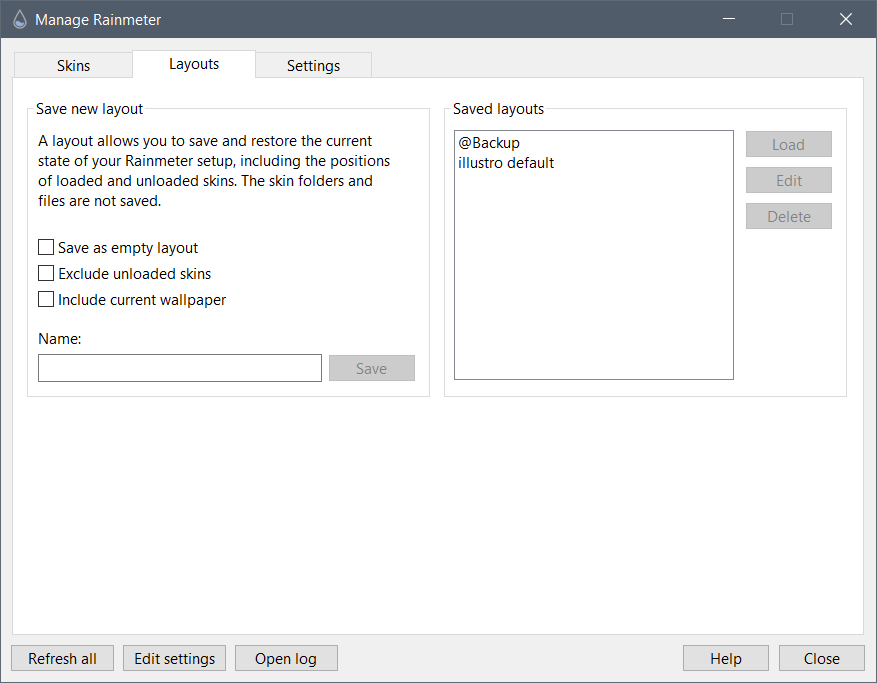
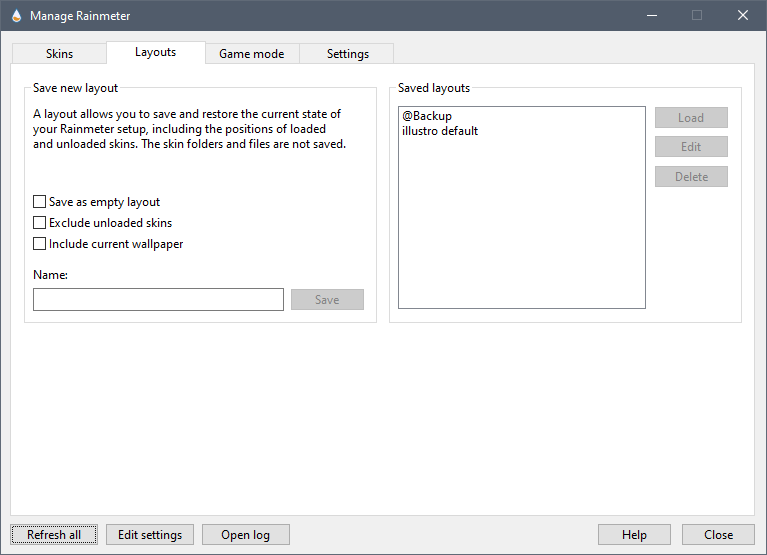
Update

diff --git a/manual-beta/user-interface/manage/index.html b/manual-beta/user-interface/manage/index.html
@@ -433,6 +433,48 @@
 
 <p>The current Rainmeter state will be replaced with the named layout. If Rainmeter is not running, it will be started.</p>
 
+<h2 id="GameModeTab">The Game mode tab</h2>
+
+<p>Game mode is used to unload some or all skins when running a full-screen game, in order to save Rainmeter CPU and GPU resources while playing.</p>
+
+<p>This can be configured to be <em>automatically</em> triggered by checking the <code>Full-screen games</code> box, which will automatically enter Game mode when any full-screen D3D game is active on the primary monitor.</p>
+
+<p>In addition, one or more processes of your choice that are not full-screen D3D games can be entered one process per line in the <code>Additional process list</code> text box, and when any of those processes are running, game mode will be triggered.</p>
+
+<div class="exampleprev">
+<a href="/manual-beta/img/user-interface/GameMode01.png" data-fancybox><img src="/manual-beta/img/user-interface/GameMode01.png"></a>
+</div>
+
+<h3 id="GameModeStart">On start</h3>
+
+<p>What happens when Game mode starts is controlled by the <code>On start</code> pulldown. This can be set to the default <code>Unload all skins</code> or any defined <a href="#LayoutsTab">Layout</a> that you create.</p>
+
+<div class="exampleprev">
+<a href="/manual-beta/img/user-interface/GameMode02.png" data-fancybox><img src="/manual-beta/img/user-interface/GameMode02.png"></a>
+</div>
+
+<h3 id="GameModeStop">On stop</h3>
+
+<p>What happens when Game mode stops is controlled by the <code>On stop</code> pulldown. This can be set to the default <code>Load current layout</code>, which will load the skins that were running before Game mode was triggered, or any defined <a href="#LayoutsTab">Layout</a> that you create.</p>
+
+<div class="exampleprev">
+<a href="/manual-beta/img/user-interface/GameMode03.png" data-fancybox><img src="/manual-beta/img/user-interface/GameMode03.png"></a>
+</div>
+
+<p>Simply create the <a href="#LayoutsTab">Layouts</a> you want to use for Game mode <code>start</code> and <code>stop</code>, and select them from these pulldowns.</p>
+
+<div class="exampleprev">
+<a href="/manual-beta/img/user-interface/GameMode04.png" data-fancybox><img src="/manual-beta/img/user-interface/GameMode04.png"></a>
+</div>
+
+<p>Game mode can also be started and stopped manually, as well as fully configured, from the Rainemter tray icon context menu.</p>
+
+<div class="exampleprev">
+<a href="/manual-beta/img/user-interface/GameModeContext01.png" data-fancybox><img src="/manual-beta/img/user-interface/GameModeContext01.png"></a>
+</div>
+
+<p><em><b>Note</b> that if you manually start or stop Game mode, the checkboxes for automatic triggering will be turned off, and you will need to enable them again, either from the context menu, or from Manage.</em></p>
+
 <h2 id="SettingsTab">The Settings tab</h2>
 
 <p>This tab has some high level settings for the Rainmeter application, as well as controls for Rainmeter's logging capability.</p>

diff --git a/history/index.html b/history/index.html
@@ -140,6 +140,11 @@
 
 <h2 id="4.4">Rainmeter 4.4</h2><hr />
 
+<h3 id="r3445">April 10, 2021 - Revision 3445</h3>
+<ul>
+	<li><span class="badge badge-changed">Changed</span><b>Game mode:</b> Major changes to the functionality of Game mode.</li>
+</ul>
+
 <h3 id="r3438">March 13, 2021 - Revision 3438</h3>
 <ul>
 	<li><span class="badge badge-changed">Changed</span><b>About / Version:</b> Minor cosmetic change to placement of information in the dialog.</li>
